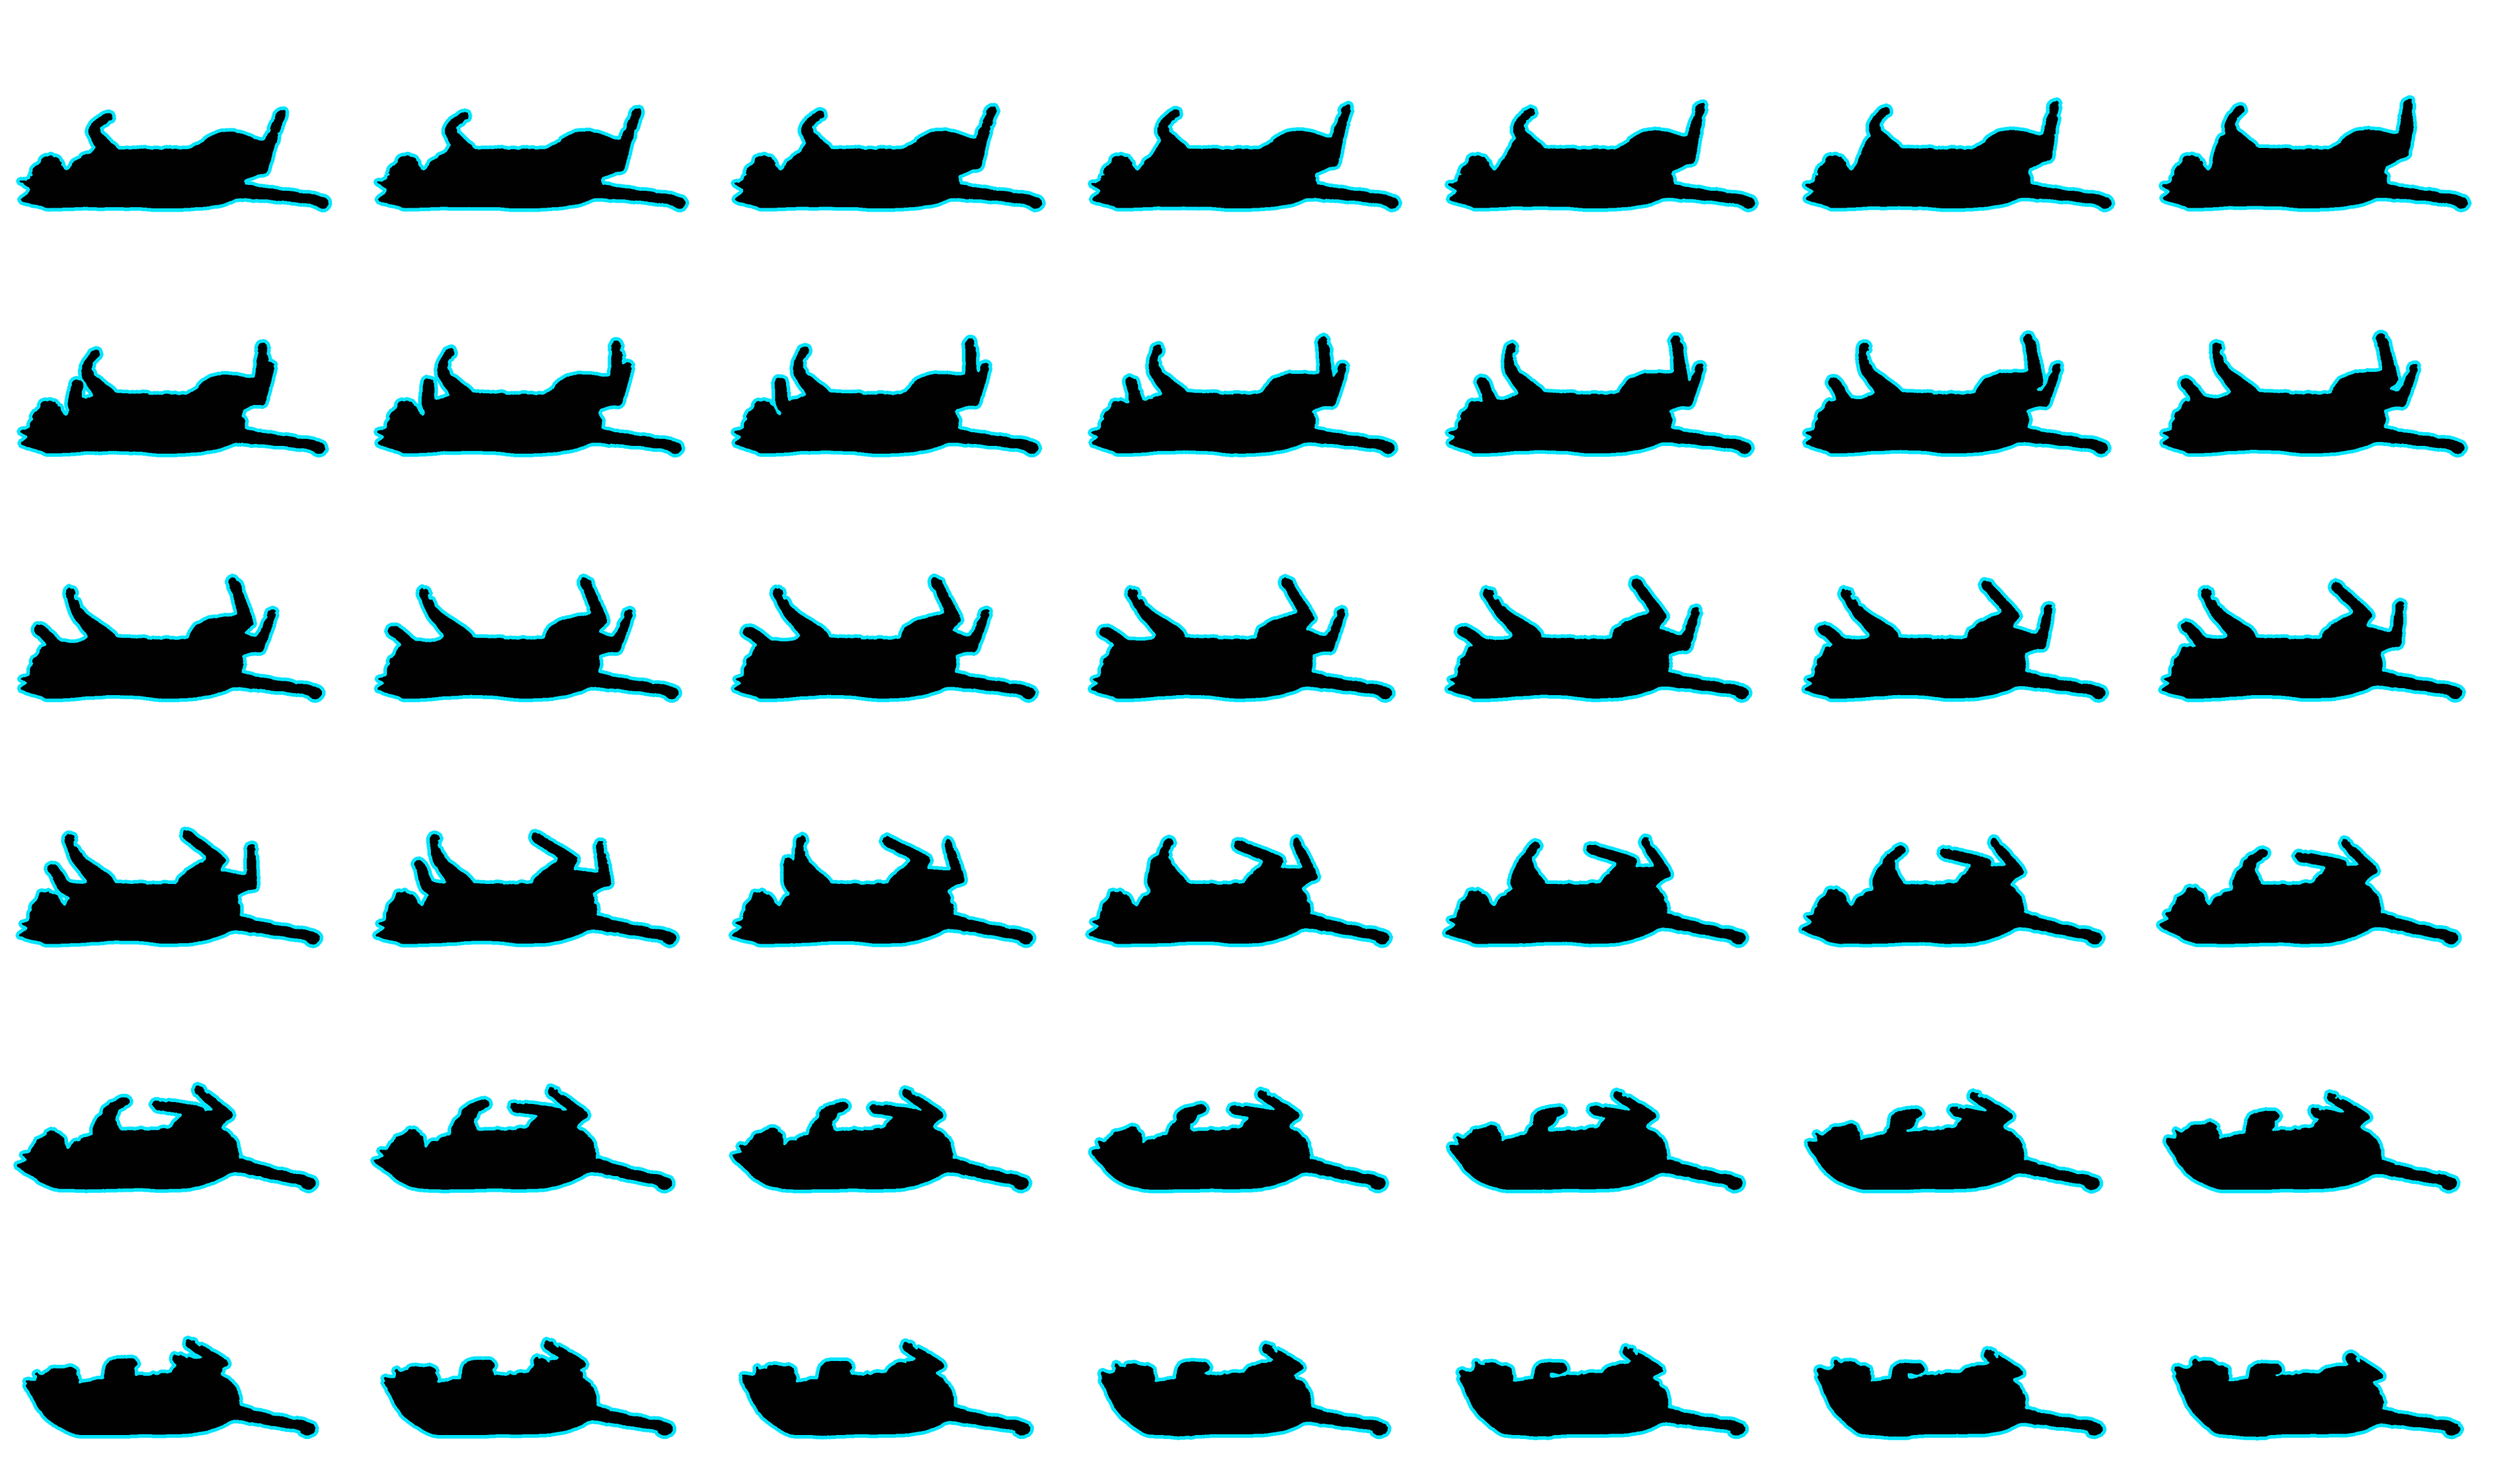
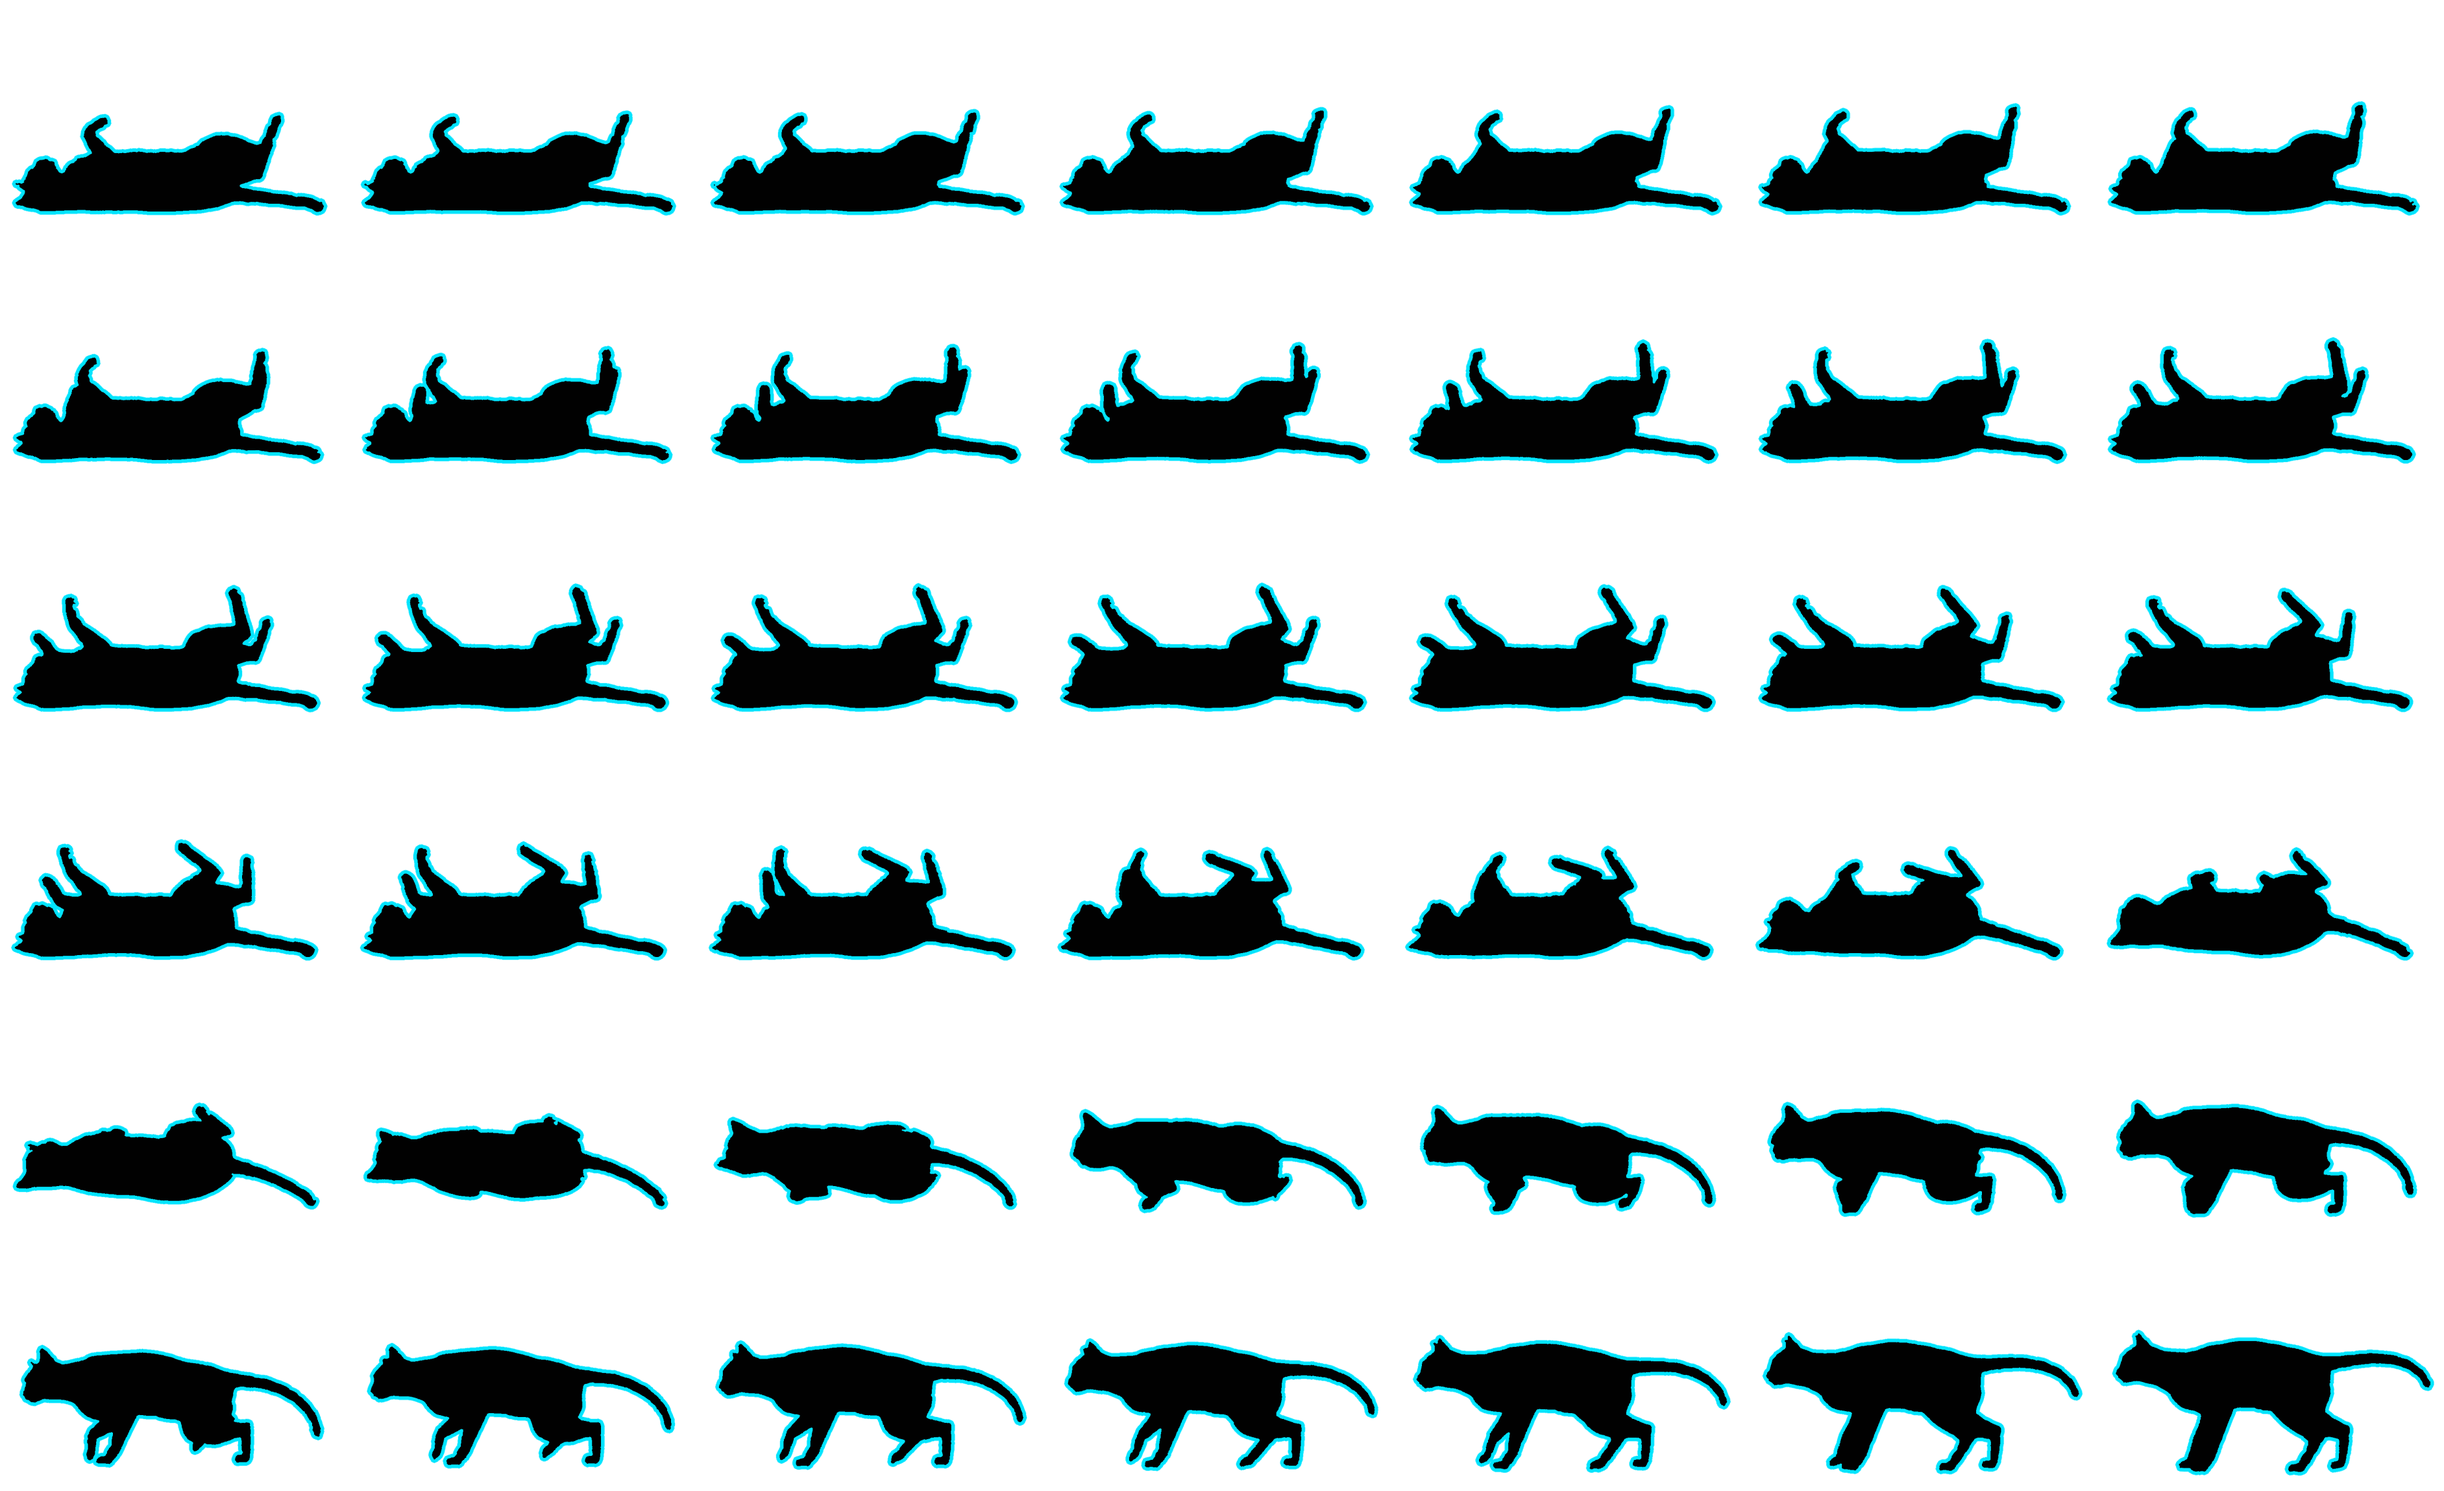
clock: swap roll clip for the new Gemini video (143 frames, 4 sheets), v31
Claude-Session: https://claude.ai/code/session_011dJr2cTpcATSR3bPd249g1

diff --git a/clock/big.html b/clock/big.html
@@ -142,16 +142,16 @@ canvas{display:block; position:absolute; inset:0}
   // 立ち止まる動き: 動画のコマ95(歩きのループの2番目と同じ姿勢)〜177(ループの12番目と同じ姿勢)。speed は各コマで進む距離(動画の画素)、stop は完全に止まるコマ
   const CALL = { n: 83, per: 42, cols: 7, cw: 476, ch: 362, scale: 0.6, pad: 8, ox: 323, oy: 89, loopIn: 2, loopOut: 12, stop: 31,
     speed: [11.55,11.55,11.76,11.97,11.97,11.76,11.55,10.92,10.29,9.66,9.45,9.24,9.03,8.61,7.77,6.93,5.67,4.62,4.41,4.62,4.41,4.62,4.62,3.99,3.57,3.15,2.73,2.52,2.1,1.68,1.26,0.84,0.42,0.21,0.0,0.0,0.0,0.0,0.0,0.0,0.0,0.0,0.0,0.0,0.0,0.0,0.0,0.0,0.0,0.0,0.0,0.0,0.21,0.42,1.05,1.68,2.52,3.15,3.99,4.41,5.25,5.88,6.72,7.35,7.98,7.98,8.19,8.61,9.45,10.08,11.34,12.18,12.6,12.81,13.23,13.44,13.86,14.49,14.91,15.12,15.12,15.12,14.91] };
-  // ごろん: 同じ動画の続き。立ち止まり、体を丸め、寝転がって転がり、起き上がって歩き出す(動画のコマ95〜440、346コマ)。全コマ(24コマ/秒)入り、9枚のシートに分けてある。
+  // ごろん: 同じ動画の続き。立ち止まり、体を丸め、寝転がって転がり、起き上がって歩き出す(新しい動画のコマ94〜236、143コマ)。全コマ(24コマ/秒)入り、4枚のシートに分けてある。
   // 止まるまでの速さは CALL と同じ(同じ動画の前半)、止まっている間は0、最後は STEP まで加速して、歩きのループへ blend コマかけて溶かしてつなぐ
-  const ROLL = { n: 346, per: 42, cols: 7, cw: 550, ch: 378, scale: 0.6, pad: 8, ox: 282, oy: 73, loopOut: 30, stop: 31, blend: 6, };
-  ROLL.speed = CALL.speed.slice(0, 35).concat(new Array(ROLL.n - 35).fill(0));
+  const ROLL = { n: 143, per: 42, cols: 7, cw: 538, ch: 383, scale: 0.6, pad: 8, ox: 295, oy: 65, loopOut: 16, stop: 28, blend: 6 };
+  ROLL.speed = Array.from({ length: ROLL.n }, (_, i) => i < 28 ? CALL.speed[Math.round(i * 34 / 27)] : 0);   // 止まるまでの28コマは、CALL の減速を縮めて使う
   for (let i = 0; i < 14; i++) ROLL.speed[ROLL.n - 14 + i] = STEP * (i + 1) / 14;
   [CALL, ROLL].forEach(c => { c.cum = [0]; c.speed.forEach(v => c.cum.push(c.cum[c.cum.length - 1] + v)); });   // 先頭から、そのコマまでに進む距離
   let catOn = get('cat', '1') === '1', catEvery = Number(get('catEvery', '300')) || 300;
   const ROLLP = 0.2;   // ふだんの横切りのうち、ごろんになる割合
   let cat = null, catTimer = 0;
-  const NROLL = 9, sheets = { walk: null, c1: null, c2: null, roll: [] };
+  const NROLL = 4, sheets = { walk: null, c1: null, c2: null, roll: [] };
   const reduceMotion = matchMedia('(prefers-reduced-motion: reduce)').matches;
   const timeKey = () => Math.floor(Date.now() / (secs ? 1000 : 60000));
   function renderLayer(){ ctx = lctx; paint(); ctx = mainCtx; }

diff --git a/clock/sw.js b/clock/sw.js
@@ -1,5 +1,5 @@
-const CACHE = 'clock-v30';
-const FILES = ['./', './index.html', './big.html', './cat-walk.png', './cat-call1.png', './cat-call2.png', './roll1.png', './roll2.png', './roll3.png', './roll4.png', './roll5.png', './roll6.png', './roll7.png', './roll8.png', './roll9.png', './manifest.webmanifest', './icon-180.png', './icon-192.png', './icon-512.png', './icon-maskable-512.png'];
+const CACHE = 'clock-v31';
+const FILES = ['./', './index.html', './big.html', './cat-walk.png', './cat-call1.png', './cat-call2.png', './roll1.png', './roll2.png', './roll3.png', './roll4.png', './manifest.webmanifest', './icon-180.png', './icon-192.png', './icon-512.png', './icon-maskable-512.png'];
 const FONT_HOSTS = ['fonts.googleapis.com', 'fonts.gstatic.com'];
 // 更新のとき、ブラウザが持っている古いコピーを使わず、必ずサーバーから取り直す
 self.addEventListener('install', e => e.waitUntil(

diff --git a/clock/index.html b/clock/index.html
@@ -296,7 +296,7 @@ dialog.dlg .times{flex-wrap:wrap}
       </section>
     </div>
     <button class="btn primary" value="close">とじる</button>
-    <p class="ver">バージョン 30</p>
+    <p class="ver">バージョン 31</p>
   </form>
 </dialog>
 </div>
